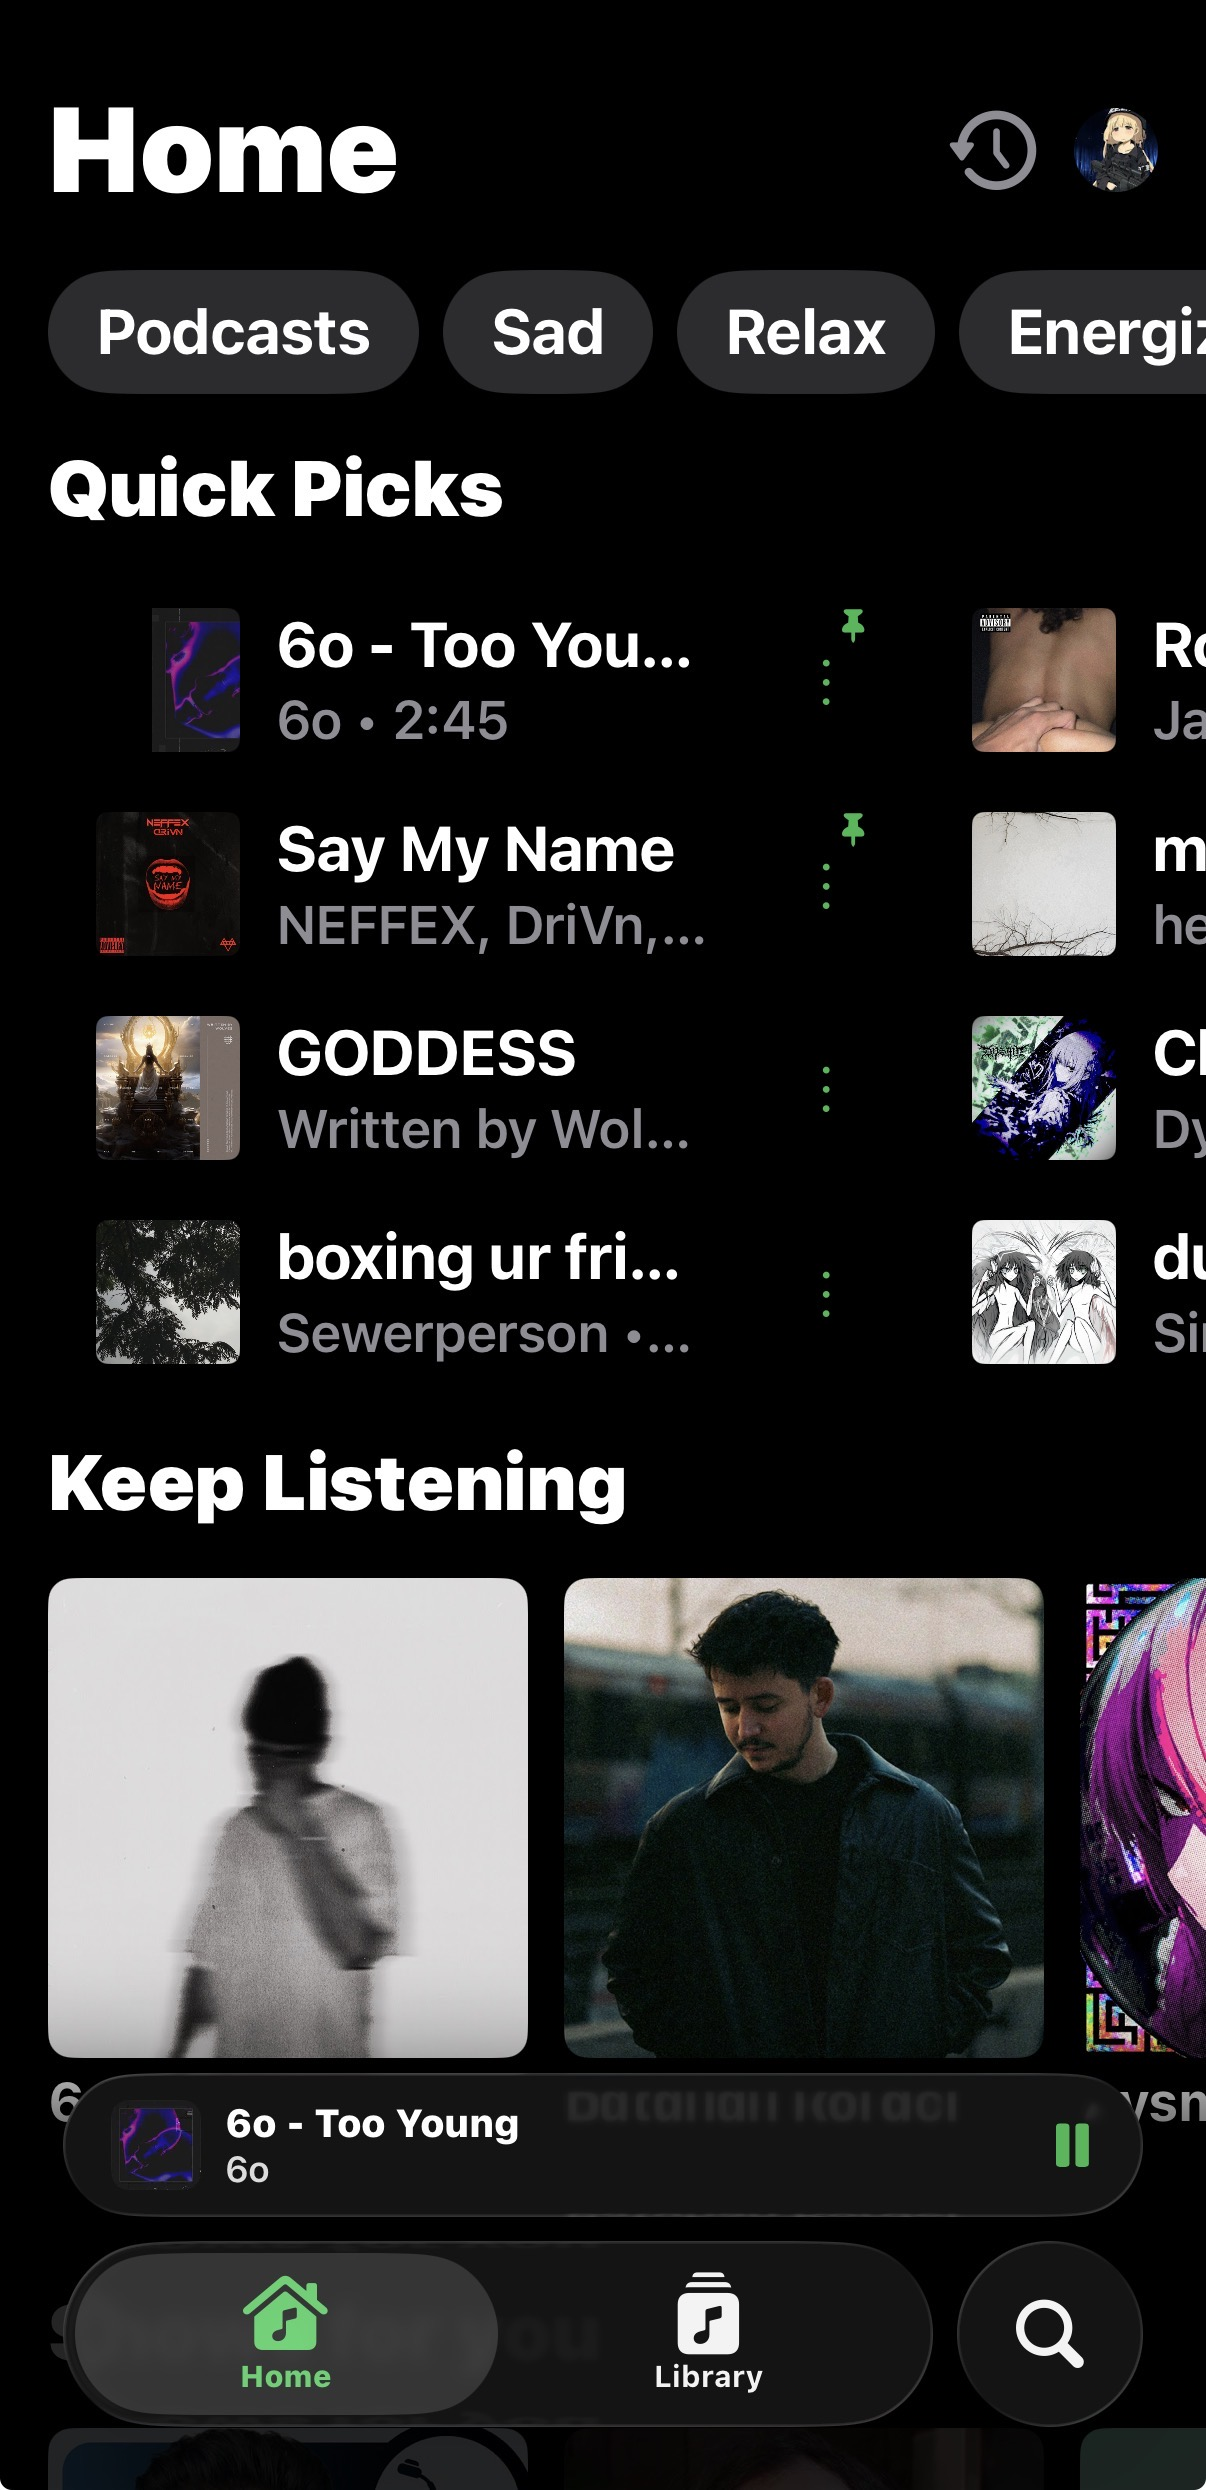
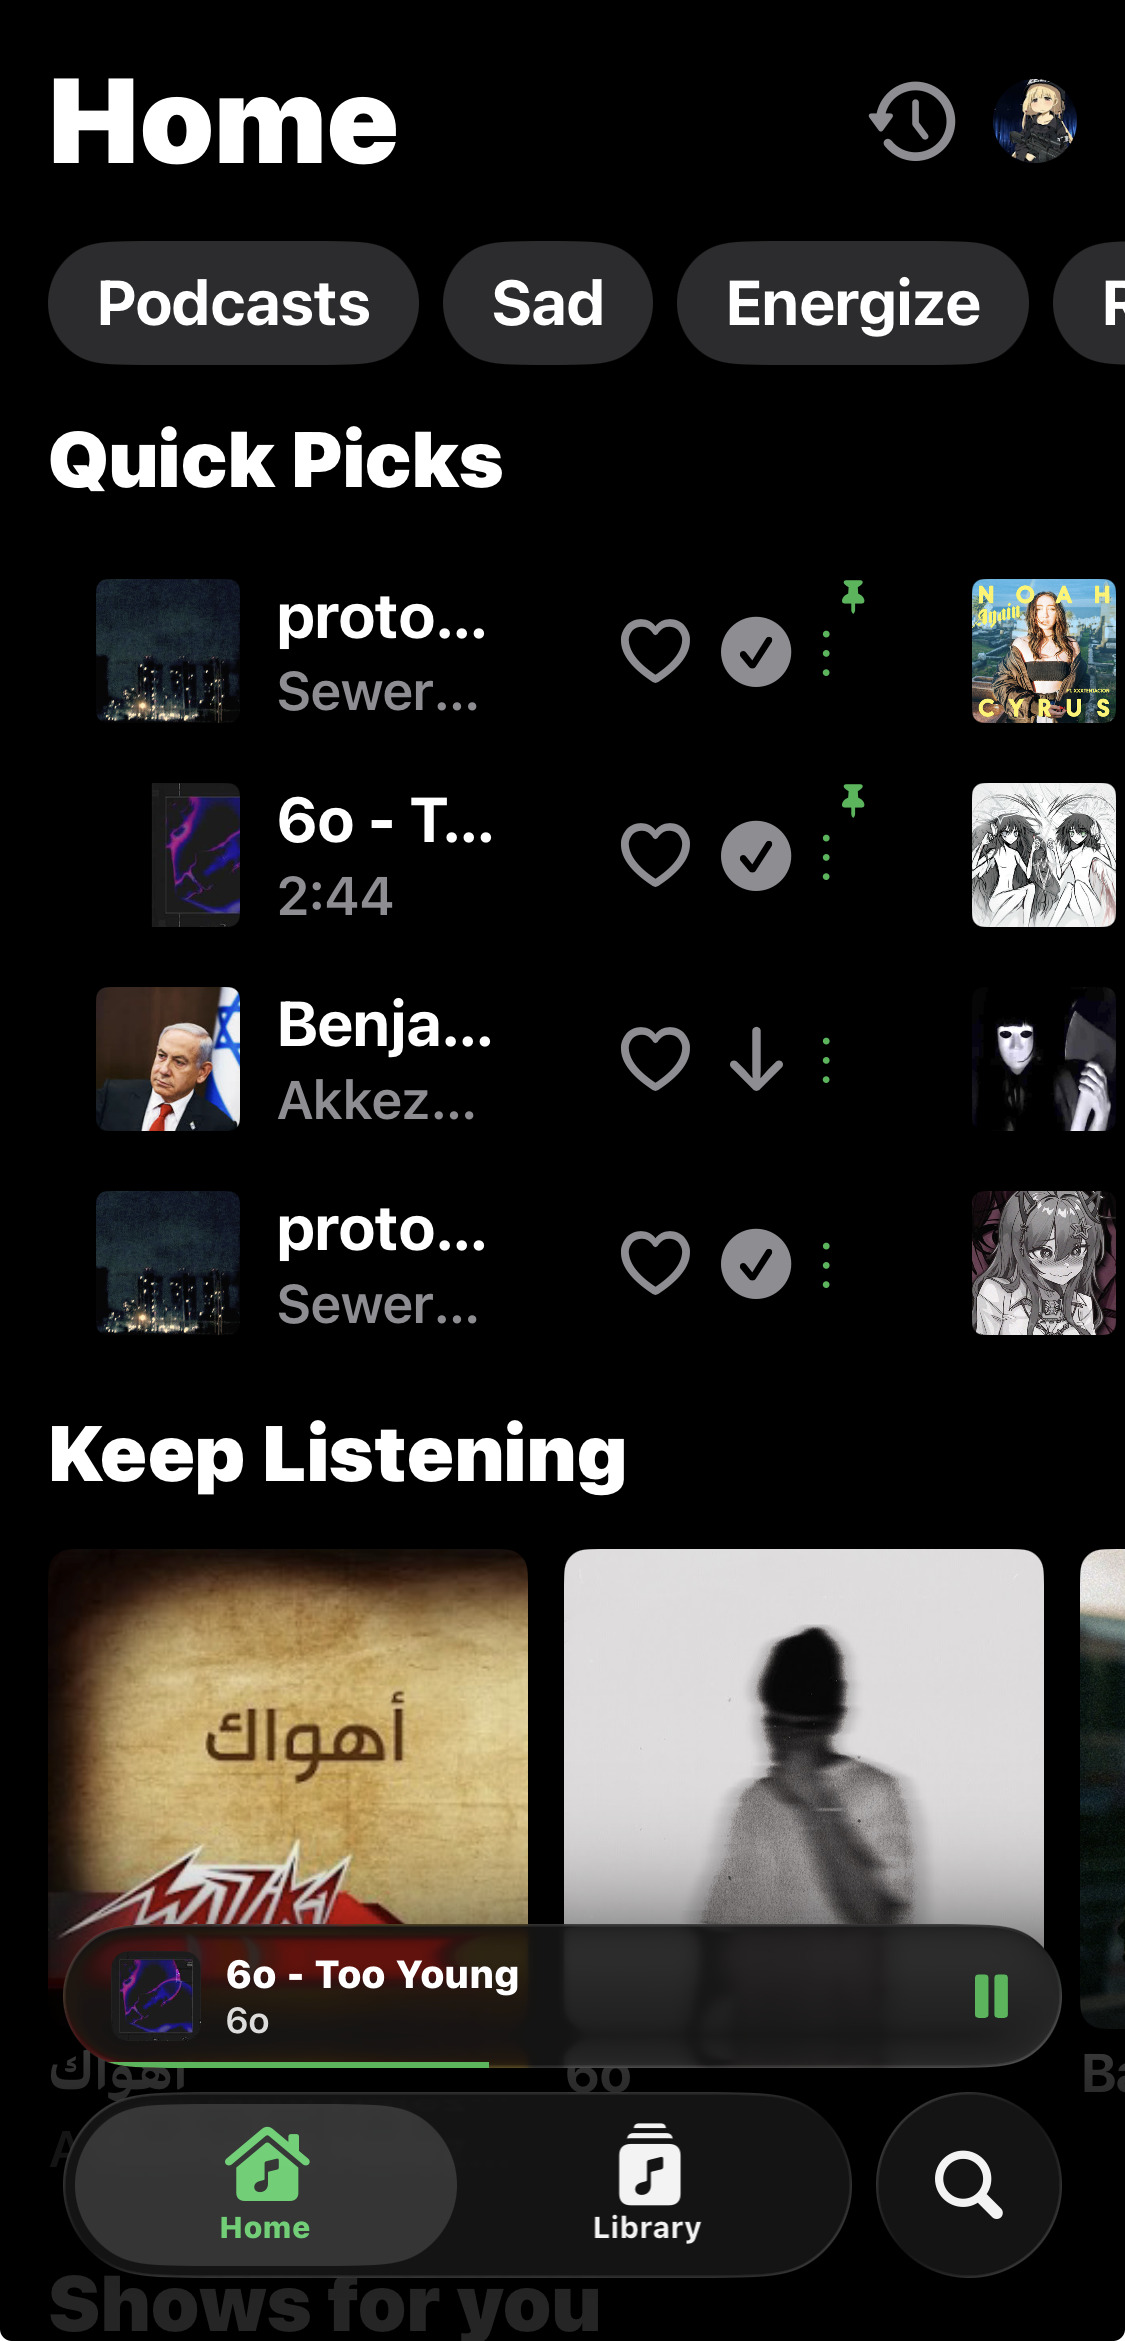
Chore: Address CodeRabbit review

diff --git a/Trop/Services/DownloadManager.swift b/Trop/Services/DownloadManager.swift
@@ -179,7 +179,12 @@ extension DownloadManager {
                     videoId: videoId
                 )
                 let validateStart = CFAbsoluteTimeGetCurrent()
-                try await validateDownloadedFile(at: fileURL)
+                do {
+                    try await validateDownloadedFile(at: fileURL)
+                } catch {
+                    try? fileManager.removeItem(at: fileURL)
+                    throw error
+                }
                 Log.downloadManager.debug("VALIDATE \(String(format: "%.1f", CFAbsoluteTimeGetCurrent() - validateStart))s")
             }
             Log.downloadManager.debug("FFMPEG \(String(format: "%.1f", CFAbsoluteTimeGetCurrent() - ffmpegStart))s")
@@ -344,6 +349,7 @@ extension DownloadManager {
 
         let args = [
             "-y",
+            "-rw_timeout", "30000000",
             "-cafile", caPath,
             "-headers", "User-Agent: Mozilla/5.0\r\n",
             "-i", url.absoluteString,
@@ -391,11 +397,12 @@ extension DownloadManager {
                     } else if ReturnCode.isCancel(rc) {
                         finish(.failure(CancellationError()))
                     } else {
-                        let output = session?.getOutput() ?? "unknown error"
+                        let output = session?.getOutput() ?? "unknown"
+                        Log.downloadManager.debug("FFmpeg output: \(output)")
                         finish(.failure(NSError(
                             domain: "DownloadManager",
                             code: -1,
-                            userInfo: [NSLocalizedDescriptionKey: "FFmpeg failed: \(output)"]
+                            userInfo: [NSLocalizedDescriptionKey: "FFmpeg processing failed"]
                         )))
                     }
                 },

diff --git a/Trop/Sync/MutationService.swift b/Trop/Sync/MutationService.swift
@@ -182,8 +182,12 @@ actor MutationService {
     }
 
     func renamePlaylist(playlistId: String, newName: String) async throws {
-        let entity = try? await db.fetchOne(PlaylistEntity.self, key: playlistId)
-        let isLocal = entity?.browseId == nil
+        guard var entity = try? await db.fetchOne(PlaylistEntity.self, key: playlistId) else {
+            throw NSError(domain: "MutationService", code: -1,
+                          userInfo: [NSLocalizedDescriptionKey: "Playlist not found"])
+        }
+
+        let isLocal = entity.browseId == nil
 
         if !isLocal {
             let actions: [[String: Any]] = [
@@ -192,10 +196,8 @@ actor MutationService {
             _ = try await innerTube.editPlaylist(playlistId: playlistId, actions: actions)
         }
 
-        if var entity {
-            entity.name = newName
-            try await db.save(entity)
-        }
+        entity.name = newName
+        try await db.save(entity)
     }
 
     func subscribeArtist(channelId: String, artistId: String) async throws {

diff --git a/Trop/Audio/PlaybackManager.swift b/Trop/Audio/PlaybackManager.swift
@@ -357,7 +357,9 @@ actor PlaybackManager {
                         Log.playbackManager.debug(
                             "\(result.clientName) returned non-AAC (\(result.mimeType)); looking for AAC client"
                         )
-                        nonAACFallback = result
+                        if nonAACFallback == nil {
+                            nonAACFallback = result
+                        }
                         continue
                     }
                 } else {

diff --git a/Trop/Components/DownloadsMoreSheet.swift b/Trop/Components/DownloadsMoreSheet.swift
@@ -49,10 +49,7 @@ struct DownloadsMoreSheet: View {
             Button("Cancel", role: .cancel) {}
             Button("Remove All", role: .destructive) {
                 Task {
-                    let dm = DownloadManager.shared
-                    for song in songs {
-                        await dm.delete(videoId: song.videoId)
-                    }
+                    await DownloadManager.shared.deleteAll()
                     dismiss()
                 }
             }
